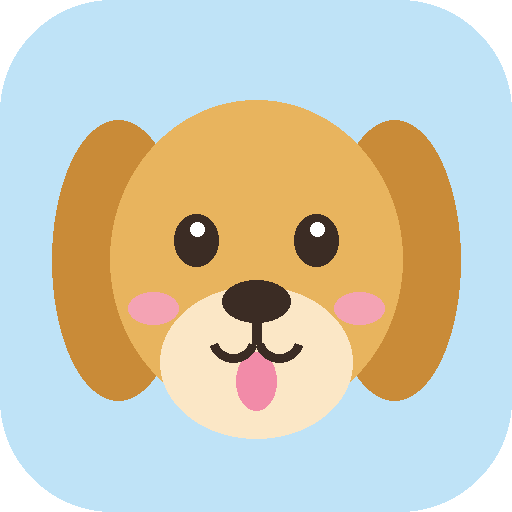
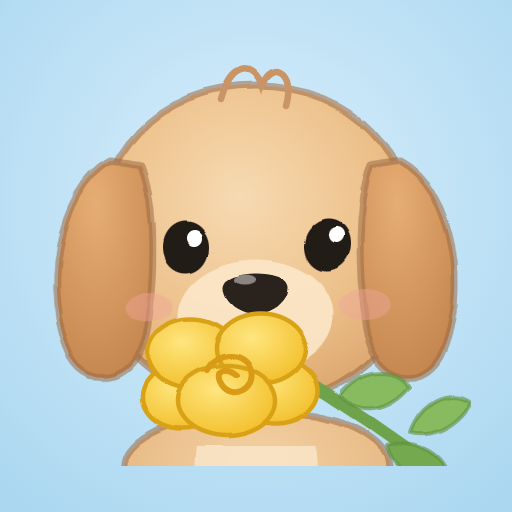
댕가계부 분리 운영, 꽃 문 강아지 캐릭터

diff --git a/dog/index.html b/dog/index.html
@@ -1,11 +1,11 @@
 <!-- 자동 생성 파일: tools/build_travel_dog.py 로 travel-app/index.html 에서 만듭니다. 직접 고치지 마세요. -->
 <!doctype html>
-<html lang="ko">
+<html lang="ko" data-store-key="daeng-ledger-v1">
 <head>
   <meta charset="utf-8">
   <meta name="viewport" content="width=device-width,initial-scale=1,viewport-fit=cover,interactive-widget=resizes-content">
   <meta name="theme-color" content="#e3a548">
-  <title>멍멍 여행가계부</title>
+  <title>댕가계부</title>
   <link rel="manifest" href="manifest.webmanifest">
   <link rel="icon" href="icon-192.png" type="image/png">
   <link rel="apple-touch-icon" href="icon-192.png">
@@ -18,19 +18,59 @@
 <body>
   <header class="top">
     <div class="top-row">
-      <div class="mascot" aria-hidden="true"><svg viewBox="0 0 64 64">
-        <path class="ear-l" d="M18 15c-8 0-13 9-12 20 1 8 5 13 10 12 5-1 6-9 7-16 1-8 0-15-5-16z" fill="#c98b38"/>
-        <path class="ear-r" d="M46 15c8 0 13 9 12 20-1 8-5 13-10 12-5-1-6-9-7-16-1-8 0-15 5-16z" fill="#c98b38"/>
-        <ellipse cx="32" cy="31" rx="18" ry="19" fill="#e8b45e"/>
-        <path d="M24 13c3-3 13-3 16 0-3 2-5 4-8 4s-5-2-8-4z" fill="#f2c983"/>
-        <ellipse cx="32" cy="42" rx="12.5" ry="9.5" fill="#fbe7c6"/>
-        <ellipse cx="24.5" cy="30" rx="3" ry="3.4" fill="#3b2c24"/><ellipse cx="39.5" cy="30" rx="3" ry="3.4" fill="#3b2c24"/>
-        <circle cx="25.5" cy="28.8" r="1.1" fill="#fff"/><circle cx="40.5" cy="28.8" r="1.1" fill="#fff"/>
-        <path d="M21.5 25.2c1.6-1.3 4.4-1.3 6 0M36.5 25.2c1.6-1.3 4.4-1.3 6 0" stroke="#b07a32" stroke-width="1.3" fill="none" stroke-linecap="round"/>
-        <ellipse cx="18.5" cy="38" rx="3.2" ry="2.1" fill="#f4a3b4" opacity=".7"/><ellipse cx="45.5" cy="38" rx="3.2" ry="2.1" fill="#f4a3b4" opacity=".7"/>
-        <path d="M27.8 37.2c0-2.6 8.4-2.6 8.4 0 0 2.2-2.4 3.7-4.2 3.7s-4.2-1.5-4.2-3.7z" fill="#3b2c24"/>
-        <path d="M32 40.9v2.3m0 0c-1.3 2-4 2.2-5.4.6m5.4-.6c1.3 2 4 2.2 5.4.6" stroke="#3b2c24" stroke-width="1.5" fill="none" stroke-linecap="round"/>
-        <path d="M29.3 45c.2 4.6 5.2 4.6 5.4 0z" fill="#f28ba8"/>
+      <div class="mascot" aria-hidden="true"><svg viewBox="17 10 86 84" aria-hidden="true">
+        <defs>
+          <radialGradient id="mfur" cx=".45" cy=".35" r=".75"><stop offset="0" stop-color="#f7dab2"/><stop offset=".6" stop-color="#ecbf88"/><stop offset="1" stop-color="#d79e68"/></radialGradient>
+          <radialGradient id="mbody" cx=".5" cy=".25" r=".85"><stop offset="0" stop-color="#f4d3a5"/><stop offset="1" stop-color="#dfa86f"/></radialGradient>
+          <radialGradient id="mear" cx=".4" cy=".2" r=".9"><stop offset="0" stop-color="#e6ad73"/><stop offset="1" stop-color="#c2834c"/></radialGradient>
+          <radialGradient id="mpetal" cx=".4" cy=".35" r=".7"><stop offset="0" stop-color="#ffe680"/><stop offset="1" stop-color="#f2bf2a"/></radialGradient>
+          <filter id="mwc" x="-5%" y="-5%" width="110%" height="110%">
+            <feTurbulence type="fractalNoise" baseFrequency=".045" numOctaves="2" seed="7" result="n"/>
+            <feDisplacementMap in="SourceGraphic" in2="n" scale="2.2" xChannelSelector="R" yChannelSelector="G"/>
+          </filter>
+        </defs>
+        <g class="pup" filter="url(#mwc)">
+          <ellipse cx="60" cy="144" rx="34" ry="4.5" fill="#3b2c24" opacity=".13"/>
+          <ellipse cx="38" cy="137" rx="10" ry="6.5" fill="#e2ab73" stroke="#9a6a43" stroke-opacity=".55" stroke-width="1.4" stroke-linejoin="round"/>
+          <ellipse cx="82" cy="137" rx="10" ry="6.5" fill="#e2ab73" stroke="#9a6a43" stroke-opacity=".55" stroke-width="1.4" stroke-linejoin="round"/>
+          <path d="M34 92C30 112 32 132 40 138H80C88 132 90 112 86 92 80 80 40 80 34 92Z" fill="url(#mbody)" stroke="#9a6a43" stroke-opacity=".55" stroke-width="1.4" stroke-linejoin="round"/>
+          <path d="M48 90C46 104 52 116 60 121 68 116 74 104 72 90Z" fill="#f9e5c8" opacity=".85"/>
+          <path d="M52 100l2 4M60 104v5M67 100l-2 4" stroke="#c99566" stroke-width="1.1" stroke-linecap="round" opacity=".6"/>
+          <g class="leg-l">
+            <path d="M44 104C42 118 42 132 44 140 46 145 56 145 57 140 58 130 57 116 56 104Z" fill="#ecbf88" stroke="#9a6a43" stroke-opacity=".55" stroke-width="1.4" stroke-linejoin="round"/>
+            <path d="M48 140v3M52 140v3" stroke="#9a6a43" stroke-opacity=".5" stroke-width="1" stroke-linecap="round"/>
+          </g>
+          <g class="leg-r">
+            <path d="M64 100C66 111 70 119 75 122L85 120C81 111 77 103 75 97Z" fill="#ecbf88" stroke="#9a6a43" stroke-opacity=".55" stroke-width="1.4" stroke-linejoin="round"/>
+            <ellipse cx="80" cy="127" rx="11.5" ry="10.5" fill="#efc795" stroke="#9a6a43" stroke-opacity=".55" stroke-width="1.4" stroke-linejoin="round"/>
+            <ellipse cx="80" cy="130.5" rx="5.6" ry="4.6" fill="#4a3a33"/>
+            <circle cx="73.4" cy="124.6" r="2" fill="#4a3a33"/><circle cx="77.4" cy="121.4" r="2" fill="#4a3a33"/>
+            <circle cx="82.6" cy="121.4" r="2" fill="#4a3a33"/><circle cx="86.6" cy="124.6" r="2" fill="#4a3a33"/>
+          </g>
+          <path d="M60 18C80 18 92 32 92 50 92 66 84 80 60 82 36 80 28 66 28 50 28 32 40 18 60 18Z" fill="url(#mfur)" stroke="#9a6a43" stroke-opacity=".55" stroke-width="1.4" stroke-linejoin="round"/>
+          <path class="ear-l" d="M31 33C20 39 17 60 23 72 27 79 36 77 38 67 40 55 40 42 37 34Z" fill="url(#mear)" stroke="#9a6a43" stroke-opacity=".55" stroke-width="1.4" stroke-linejoin="round"/>
+          <path class="ear-r" d="M89 33C100 39 103 60 97 72 93 79 84 77 82 67 80 55 80 42 83 34Z" fill="url(#mear)" stroke="#9a6a43" stroke-opacity=".55" stroke-width="1.4" stroke-linejoin="round"/>
+          <path d="M53 21C55 14 59 13 61 18 63 13 68 15 66 22" fill="none" stroke="#c99566" stroke-width="1.3" stroke-linecap="round"/>
+          <ellipse cx="60" cy="64" rx="15.5" ry="11.5" fill="#fbe6c8" opacity=".92"/>
+          <ellipse cx="38.5" cy="62" rx="5" ry="3" fill="#f0a49a" opacity=".45"/>
+          <ellipse cx="81.5" cy="62" rx="5" ry="3" fill="#f0a49a" opacity=".45"/>
+          <ellipse cx="46" cy="50" rx="4.6" ry="5.1" fill="#231a16"/><ellipse cx="74" cy="50" rx="4.6" ry="5.1" fill="#231a16"/>
+          <circle cx="47.6" cy="48.2" r="1.6" fill="#fff"/><circle cx="75.6" cy="48.2" r="1.6" fill="#fff"/>
+          <path d="M53.5 58C53.5 54.4 66.5 54.4 66.5 58 66.5 61.6 62.6 63.6 60 63.6 57.4 63.6 53.5 61.6 53.5 58Z" fill="#2b201c"/>
+          <ellipse cx="57.8" cy="56.5" rx="2.2" ry="1" fill="#fff" opacity=".45"/>
+          <g class="flower">
+            <path d="M65 74C75 80 86 87 99 97" fill="none" stroke="#6ea34c" stroke-width="2.6" stroke-linecap="round"/>
+            <path d="M77 80c4-6 12-6 14-2-4 5-10 6-14 2Z" fill="#88bb5f" stroke="#5d8f3e" stroke-width=".8" stroke-opacity=".6"/>
+            <path d="M86 90c6-2 12 2 12 6-6 1-11-1-12-6Z" fill="#74a94f" stroke="#5d8f3e" stroke-width=".8" stroke-opacity=".6"/>
+            <path d="M91 87c2-6 8-9 12-6-3 5-8 7-12 6Z" fill="#88bb5f" stroke="#5d8f3e" stroke-width=".8" stroke-opacity=".6"/>
+            <ellipse cx="45" cy="80" rx="8" ry="6.5" fill="url(#mpetal)" stroke="#d9a218" stroke-width=".9"/>
+            <ellipse cx="64" cy="79" rx="8.5" ry="6.5" fill="url(#mpetal)" stroke="#d9a218" stroke-width=".9"/>
+            <ellipse cx="47" cy="71.5" rx="9" ry="7" fill="url(#mpetal)" stroke="#d9a218" stroke-width=".9"/>
+            <ellipse cx="61" cy="70.5" rx="9" ry="7" fill="url(#mpetal)" stroke="#d9a218" stroke-width=".9"/>
+            <ellipse cx="54" cy="81" rx="10" ry="7" fill="url(#mpetal)" stroke="#d9a218" stroke-width=".9"/>
+            <path d="M50 75c2-4 8-4 9 0s-4 6-6 3 1-4 3-2" fill="none" stroke="#d99a12" stroke-width="1.2" stroke-linecap="round"/>
+          </g>
+        </g>
       </svg></div>
       <label class="sr" for="trip-select">여행 선택</label>
       <select id="trip-select"></select>
@@ -199,22 +239,58 @@
   <div class="walker" aria-hidden="true">
     <div class="walker-move">
       <span class="bubble"></span>
-      <svg class="walker-dog" viewBox="0 0 100 66">
-        <path class="tail" d="M20 33c-6-2-11-8-12-15 4 3 9 6 14 9z" fill="#d49a45"/>
-        <rect class="leg leg-b1" x="25" y="40" width="7" height="20" rx="3.5" fill="#c98b38"/>
-        <rect class="leg leg-f1" x="58" y="40" width="7" height="20" rx="3.5" fill="#c98b38"/>
-        <ellipse cx="44" cy="37" rx="25" ry="13" fill="#e8b45e"/>
-        <ellipse cx="60" cy="42" rx="9" ry="7" fill="#f2c983"/>
-        <rect class="leg leg-b2" x="31" y="41" width="7.5" height="20" rx="3.7" fill="#e8b45e"/>
-        <rect class="leg leg-f2" x="64" y="41" width="7.5" height="20" rx="3.7" fill="#e8b45e"/>
-        <g class="head">
-          <circle cx="73" cy="24" r="13.5" fill="#e8b45e"/>
-          <ellipse cx="85" cy="29.5" rx="9" ry="6.8" fill="#fbe7c6"/>
-          <ellipse cx="92.5" cy="27" rx="3" ry="2.6" fill="#3b2c24"/>
-          <circle cx="77.5" cy="20.5" r="2.2" fill="#3b2c24"/><circle cx="78.2" cy="19.8" r=".8" fill="#fff"/>
-          <path d="M83 34c2 1.6 5 1.6 7 0" stroke="#3b2c24" stroke-width="1.3" fill="none" stroke-linecap="round"/>
-          <path class="tongue" d="M85.5 34.5c0 4 4.5 4 4.5 0z" fill="#f28ba8"/>
-          <path class="ear" d="M66 13c-6 0-9 7-8 14 1 6 4 9 7 8s4-6 4-11c0-5-1-10-3-11z" fill="#c98b38"/>
+      <svg class="walker-dog" viewBox="0 0 120 150" aria-hidden="true">
+        <defs>
+          <radialGradient id="wfur" cx=".45" cy=".35" r=".75"><stop offset="0" stop-color="#f7dab2"/><stop offset=".6" stop-color="#ecbf88"/><stop offset="1" stop-color="#d79e68"/></radialGradient>
+          <radialGradient id="wbody" cx=".5" cy=".25" r=".85"><stop offset="0" stop-color="#f4d3a5"/><stop offset="1" stop-color="#dfa86f"/></radialGradient>
+          <radialGradient id="wear" cx=".4" cy=".2" r=".9"><stop offset="0" stop-color="#e6ad73"/><stop offset="1" stop-color="#c2834c"/></radialGradient>
+          <radialGradient id="wpetal" cx=".4" cy=".35" r=".7"><stop offset="0" stop-color="#ffe680"/><stop offset="1" stop-color="#f2bf2a"/></radialGradient>
+          <filter id="wwc" x="-5%" y="-5%" width="110%" height="110%">
+            <feTurbulence type="fractalNoise" baseFrequency=".045" numOctaves="2" seed="7" result="n"/>
+            <feDisplacementMap in="SourceGraphic" in2="n" scale="2.2" xChannelSelector="R" yChannelSelector="G"/>
+          </filter>
+        </defs>
+        <g class="pup" filter="url(#wwc)">
+          <ellipse cx="60" cy="144" rx="34" ry="4.5" fill="#3b2c24" opacity=".13"/>
+          <ellipse cx="38" cy="137" rx="10" ry="6.5" fill="#e2ab73" stroke="#9a6a43" stroke-opacity=".55" stroke-width="1.4" stroke-linejoin="round"/>
+          <ellipse cx="82" cy="137" rx="10" ry="6.5" fill="#e2ab73" stroke="#9a6a43" stroke-opacity=".55" stroke-width="1.4" stroke-linejoin="round"/>
+          <path d="M34 92C30 112 32 132 40 138H80C88 132 90 112 86 92 80 80 40 80 34 92Z" fill="url(#wbody)" stroke="#9a6a43" stroke-opacity=".55" stroke-width="1.4" stroke-linejoin="round"/>
+          <path d="M48 90C46 104 52 116 60 121 68 116 74 104 72 90Z" fill="#f9e5c8" opacity=".85"/>
+          <path d="M52 100l2 4M60 104v5M67 100l-2 4" stroke="#c99566" stroke-width="1.1" stroke-linecap="round" opacity=".6"/>
+          <g class="leg-l">
+            <path d="M44 104C42 118 42 132 44 140 46 145 56 145 57 140 58 130 57 116 56 104Z" fill="#ecbf88" stroke="#9a6a43" stroke-opacity=".55" stroke-width="1.4" stroke-linejoin="round"/>
+            <path d="M48 140v3M52 140v3" stroke="#9a6a43" stroke-opacity=".5" stroke-width="1" stroke-linecap="round"/>
+          </g>
+          <g class="leg-r">
+            <path d="M64 100C66 111 70 119 75 122L85 120C81 111 77 103 75 97Z" fill="#ecbf88" stroke="#9a6a43" stroke-opacity=".55" stroke-width="1.4" stroke-linejoin="round"/>
+            <ellipse cx="80" cy="127" rx="11.5" ry="10.5" fill="#efc795" stroke="#9a6a43" stroke-opacity=".55" stroke-width="1.4" stroke-linejoin="round"/>
+            <ellipse cx="80" cy="130.5" rx="5.6" ry="4.6" fill="#4a3a33"/>
+            <circle cx="73.4" cy="124.6" r="2" fill="#4a3a33"/><circle cx="77.4" cy="121.4" r="2" fill="#4a3a33"/>
+            <circle cx="82.6" cy="121.4" r="2" fill="#4a3a33"/><circle cx="86.6" cy="124.6" r="2" fill="#4a3a33"/>
+          </g>
+          <path d="M60 18C80 18 92 32 92 50 92 66 84 80 60 82 36 80 28 66 28 50 28 32 40 18 60 18Z" fill="url(#wfur)" stroke="#9a6a43" stroke-opacity=".55" stroke-width="1.4" stroke-linejoin="round"/>
+          <path class="ear-l" d="M31 33C20 39 17 60 23 72 27 79 36 77 38 67 40 55 40 42 37 34Z" fill="url(#wear)" stroke="#9a6a43" stroke-opacity=".55" stroke-width="1.4" stroke-linejoin="round"/>
+          <path class="ear-r" d="M89 33C100 39 103 60 97 72 93 79 84 77 82 67 80 55 80 42 83 34Z" fill="url(#wear)" stroke="#9a6a43" stroke-opacity=".55" stroke-width="1.4" stroke-linejoin="round"/>
+          <path d="M53 21C55 14 59 13 61 18 63 13 68 15 66 22" fill="none" stroke="#c99566" stroke-width="1.3" stroke-linecap="round"/>
+          <ellipse cx="60" cy="64" rx="15.5" ry="11.5" fill="#fbe6c8" opacity=".92"/>
+          <ellipse cx="38.5" cy="62" rx="5" ry="3" fill="#f0a49a" opacity=".45"/>
+          <ellipse cx="81.5" cy="62" rx="5" ry="3" fill="#f0a49a" opacity=".45"/>
+          <ellipse cx="46" cy="50" rx="4.6" ry="5.1" fill="#231a16"/><ellipse cx="74" cy="50" rx="4.6" ry="5.1" fill="#231a16"/>
+          <circle cx="47.6" cy="48.2" r="1.6" fill="#fff"/><circle cx="75.6" cy="48.2" r="1.6" fill="#fff"/>
+          <path d="M53.5 58C53.5 54.4 66.5 54.4 66.5 58 66.5 61.6 62.6 63.6 60 63.6 57.4 63.6 53.5 61.6 53.5 58Z" fill="#2b201c"/>
+          <ellipse cx="57.8" cy="56.5" rx="2.2" ry="1" fill="#fff" opacity=".45"/>
+          <g class="flower">
+            <path d="M65 74C75 80 86 87 99 97" fill="none" stroke="#6ea34c" stroke-width="2.6" stroke-linecap="round"/>
+            <path d="M77 80c4-6 12-6 14-2-4 5-10 6-14 2Z" fill="#88bb5f" stroke="#5d8f3e" stroke-width=".8" stroke-opacity=".6"/>
+            <path d="M86 90c6-2 12 2 12 6-6 1-11-1-12-6Z" fill="#74a94f" stroke="#5d8f3e" stroke-width=".8" stroke-opacity=".6"/>
+            <path d="M91 87c2-6 8-9 12-6-3 5-8 7-12 6Z" fill="#88bb5f" stroke="#5d8f3e" stroke-width=".8" stroke-opacity=".6"/>
+            <ellipse cx="45" cy="80" rx="8" ry="6.5" fill="url(#wpetal)" stroke="#d9a218" stroke-width=".9"/>
+            <ellipse cx="64" cy="79" rx="8.5" ry="6.5" fill="url(#wpetal)" stroke="#d9a218" stroke-width=".9"/>
+            <ellipse cx="47" cy="71.5" rx="9" ry="7" fill="url(#wpetal)" stroke="#d9a218" stroke-width=".9"/>
+            <ellipse cx="61" cy="70.5" rx="9" ry="7" fill="url(#wpetal)" stroke="#d9a218" stroke-width=".9"/>
+            <ellipse cx="54" cy="81" rx="10" ry="7" fill="url(#wpetal)" stroke="#d9a218" stroke-width=".9"/>
+            <path d="M50 75c2-4 8-4 9 0s-4 6-6 3 1-4 3-2" fill="none" stroke="#d99a12" stroke-width="1.2" stroke-linecap="round"/>
+          </g>
         </g>
       </svg>
     </div>

diff --git a/dog/dog.css b/dog/dog.css
@@ -1,4 +1,4 @@
-/* 멍멍 여행가계부 — 기본 styles.css 위에 덮어쓰는 강아지(골든 리트리버) 테마.
+/* 댕가계부 — 기본 styles.css 위에 덮어쓰는 강아지(꽃 문 골든 리트리버) 테마.
    Layout: 같은 화면 구성. 하늘색 바탕 + 골든 털색 헤더 + 둥근 카드, 숫자는 둥근 Jua 서체. */
 :root {
   --bg: #e9f4fb; --surface: #ffffff; --ink: #3b2c24; --muted: #7a6a60; --line: #d8e5ee;
@@ -37,11 +37,13 @@ body {
 .mascot { width: 54px; height: 54px; flex: none; margin: -2px 0 -4px; padding: 3px; border-radius: 50%; background: #fff6e6; box-shadow: 0 2px 0 rgba(59, 44, 36, .18); }
 .mascot svg { width: 100%; height: 100%; display: block; }
 @media (prefers-reduced-motion: no-preference) {
-  /* 늘어진 귀가 가끔 살랑 */
-  .mascot .ear-l { transform-origin: 18px 16px; animation: flop-l 3.6s ease-in-out infinite; }
-  .mascot .ear-r { transform-origin: 46px 16px; animation: flop-r 3.6s ease-in-out .25s infinite; }
-  @keyframes flop-l { 0%, 78%, 100% { transform: rotate(0); } 85% { transform: rotate(9deg); } 92% { transform: rotate(-3deg); } }
-  @keyframes flop-r { 0%, 78%, 100% { transform: rotate(0); } 85% { transform: rotate(-9deg); } 92% { transform: rotate(3deg); } }
+  /* 늘어진 귀가 가끔 살랑, 꽃이 살짝 흔들림 */
+  .mascot .ear-l { transform-box: fill-box; transform-origin: 70% 5%; animation: flop-l 3.6s ease-in-out infinite; }
+  .mascot .ear-r { transform-box: fill-box; transform-origin: 30% 5%; animation: flop-r 3.6s ease-in-out .25s infinite; }
+  .mascot .flower { transform-box: fill-box; transform-origin: 20% 40%; animation: sway 4s ease-in-out infinite; }
+  @keyframes flop-l { 0%, 78%, 100% { transform: rotate(0); } 85% { transform: rotate(8deg); } 92% { transform: rotate(-3deg); } }
+  @keyframes flop-r { 0%, 78%, 100% { transform: rotate(0); } 85% { transform: rotate(-8deg); } 92% { transform: rotate(3deg); } }
+  @keyframes sway { 0%, 100% { transform: rotate(0); } 50% { transform: rotate(-4deg); } }
 }
 .top select { font-family: var(--display); font-weight: 400; font-size: 22px; letter-spacing: .01em; }
 .top select option { color: #3b2c24; }
@@ -110,9 +112,9 @@ td.num { font-family: var(--display); }
   background: var(--accent); -webkit-mask: var(--paw) center / contain no-repeat; mask: var(--paw) center / contain no-repeat;
 }
 
-/* ---------- 움직이는 리트리버 ---------- */
+/* ---------- 움직이는 강아지: 꽃 물고 한 발 들고 아장아장 ---------- */
 .top { position: sticky; }
-.mascot { cursor: pointer; }
+.mascot { cursor: pointer; overflow: hidden; }
 .mascot.hop { animation: hop .7s ease-out; }
 @keyframes hop { 0%, 100% { transform: translateY(0); } 30% { transform: translateY(-10px) rotate(-6deg); } 55% { transform: translateY(0); } 75% { transform: translateY(-4px) rotate(4deg); } }
 .mascot-bubble, .walker .bubble {
@@ -123,33 +125,32 @@ td.num { font-family: var(--display); }
 .mascot-bubble::before { content: ""; position: absolute; left: -8px; top: 9px; border: 6px solid transparent; border-right-color: var(--accent); border-left: 0; }
 
 .walker {
-  position: fixed; left: 0; right: 0; height: 116px; z-index: 5; pointer-events: none; overflow: hidden;
-  bottom: calc(66px + env(safe-area-inset-bottom, 0px));
+  position: fixed; left: 0; right: 0; height: 140px; z-index: 5; pointer-events: none; overflow: hidden;
+  bottom: calc(72px + env(safe-area-inset-bottom, 0px));
 }
-.walker-move { position: absolute; left: 0; bottom: 0; width: 96px; transform: translateX(-120px); }
-.walker-dog { width: 96px; height: 64px; display: block; overflow: visible; }
-.walker .bubble { position: absolute; bottom: 62px; left: 40px; opacity: 0; }
-.walker .tongue { opacity: 0; }
+.walker-move { position: absolute; left: 0; bottom: 0; width: 72px; transform: translateX(-100px); }
+.walker-dog { width: 72px; height: 90px; display: block; overflow: visible; }
+.walker .bubble { position: absolute; bottom: 86px; left: 30px; opacity: 0; }
 @media (prefers-reduced-motion: no-preference) {
-  /* 평소: 34초마다 한 번 천천히 산책 (화면 밖에서 쉬다가 등장) */
+  /* 평소: 34초마다 한 번 천천히 지나감 (화면 밖에서 쉬다가 등장) */
   .walker-move { animation: stroll 34s linear 4s infinite; }
-  .walker .leg { transform-box: fill-box; transform-origin: 50% 8%; animation: step .52s ease-in-out infinite alternate; }
-  .walker .leg-b2, .walker .leg-f1 { animation-delay: -.26s; }
-  .walker .tail { transform-box: fill-box; transform-origin: 100% 100%; animation: wag .32s ease-in-out infinite alternate; }
-  .walker .head { transform-box: fill-box; transform-origin: 30% 80%; animation: bob .52s ease-in-out infinite alternate; }
-  .walker .ear { transform-box: fill-box; transform-origin: 60% 10%; animation: flap .52s ease-in-out infinite alternate; }
-  /* 저장했을 때: 말풍선 달고 신나게 달려 지나감 */
-  .walker.run .walker-move { animation: dash 3.4s cubic-bezier(.3, .1, .4, 1) 1; }
-  .walker.run .leg { animation-duration: .22s; }
-  .walker.run .tail { animation-duration: .14s; }
-  .walker.run .bubble { animation: pop 3.4s ease 1; }
-  .walker.run .tongue { opacity: 1; }
+  .walker .pup { transform-box: fill-box; transform-origin: 50% 100%; animation: toddle .5s ease-in-out infinite alternate; }
+  .walker .leg-r { transform-box: fill-box; transform-origin: 20% 0%; animation: paw .5s ease-in-out infinite alternate; }
+  .walker .leg-l { transform-box: fill-box; transform-origin: 50% 0%; animation: paw-l .5s ease-in-out infinite alternate; }
+  .walker .ear-l { transform-box: fill-box; transform-origin: 70% 5%; animation: flap-l .5s ease-in-out infinite alternate; }
+  .walker .ear-r { transform-box: fill-box; transform-origin: 30% 5%; animation: flap-r .5s ease-in-out infinite alternate; }
+  .walker .flower { transform-box: fill-box; transform-origin: 20% 40%; animation: sway .5s ease-in-out infinite alternate; }
+  /* 저장했을 때: 말풍선 달고 신나게 뛰어 지나감 */
+  .walker.run .walker-move { animation: dash 3.6s cubic-bezier(.3, .1, .4, 1) 1; }
+  .walker.run .pup, .walker.run .leg-r, .walker.run .leg-l, .walker.run .ear-l, .walker.run .ear-r { animation-duration: .2s; }
+  .walker.run .bubble { animation: pop 3.6s ease 1; }
 }
 @media (prefers-reduced-motion: reduce) { .walker { display: none; } }
-@keyframes stroll { 0% { transform: translateX(-120px); } 40% { transform: translateX(calc(100vw + 20px)); } 100% { transform: translateX(calc(100vw + 20px)); } }
-@keyframes dash { 0% { transform: translateX(-120px); } 100% { transform: translateX(calc(100vw + 20px)); } }
-@keyframes step { from { transform: rotate(16deg); } to { transform: rotate(-16deg); } }
-@keyframes wag { from { transform: rotate(-14deg); } to { transform: rotate(18deg); } }
-@keyframes bob { from { transform: translateY(0); } to { transform: translateY(-1.5px) rotate(-2deg); } }
-@keyframes flap { from { transform: rotate(-4deg); } to { transform: rotate(8deg); } }
+@keyframes stroll { 0% { transform: translateX(-100px); } 45% { transform: translateX(calc(100vw + 20px)); } 100% { transform: translateX(calc(100vw + 20px)); } }
+@keyframes dash { 0% { transform: translateX(-100px); } 100% { transform: translateX(calc(100vw + 20px)); } }
+@keyframes toddle { from { transform: rotate(-4deg) translateY(0); } to { transform: rotate(4deg) translateY(-2px); } }
+@keyframes paw { from { transform: rotate(0) translateY(0); } to { transform: rotate(-14deg) translateY(-3px); } }
+@keyframes paw-l { from { transform: translateY(-2px); } to { transform: translateY(0); } }
+@keyframes flap-l { from { transform: rotate(-3deg); } to { transform: rotate(7deg); } }
+@keyframes flap-r { from { transform: rotate(3deg); } to { transform: rotate(-7deg); } }
 @keyframes pop { 0% { opacity: 0; transform: scale(.6); } 10%, 85% { opacity: 1; transform: scale(1); } 100% { opacity: 0; } }

diff --git a/app.js b/app.js
@@ -4,7 +4,8 @@
   const L = window.Ledger;
   const $ = (id) => document.getElementById(id);
   const BASE = new URL(".", document.currentScript.src);
-  const KEY = "dogi-travel-v1";
+  // 앱마다 기록 저장소를 따로 쓴다(댕가계부는 <html data-store-key="daeng-ledger-v1">).
+  const KEY = document.documentElement.dataset.storeKey || "dogi-travel-v1";
   const RATE_CACHE = "dogi-travel-rates-v1";
   const today = () => { const d = new Date(); d.setMinutes(d.getMinutes() - d.getTimezoneOffset()); return d.toISOString().slice(0, 10); };
   const esc = (s) => String(s ?? "").replace(/[&<>"']/g, (c) => ({ "&": "&amp;", "<": "&lt;", ">": "&gt;", '"': "&quot;", "'": "&#39;" }[c]));
